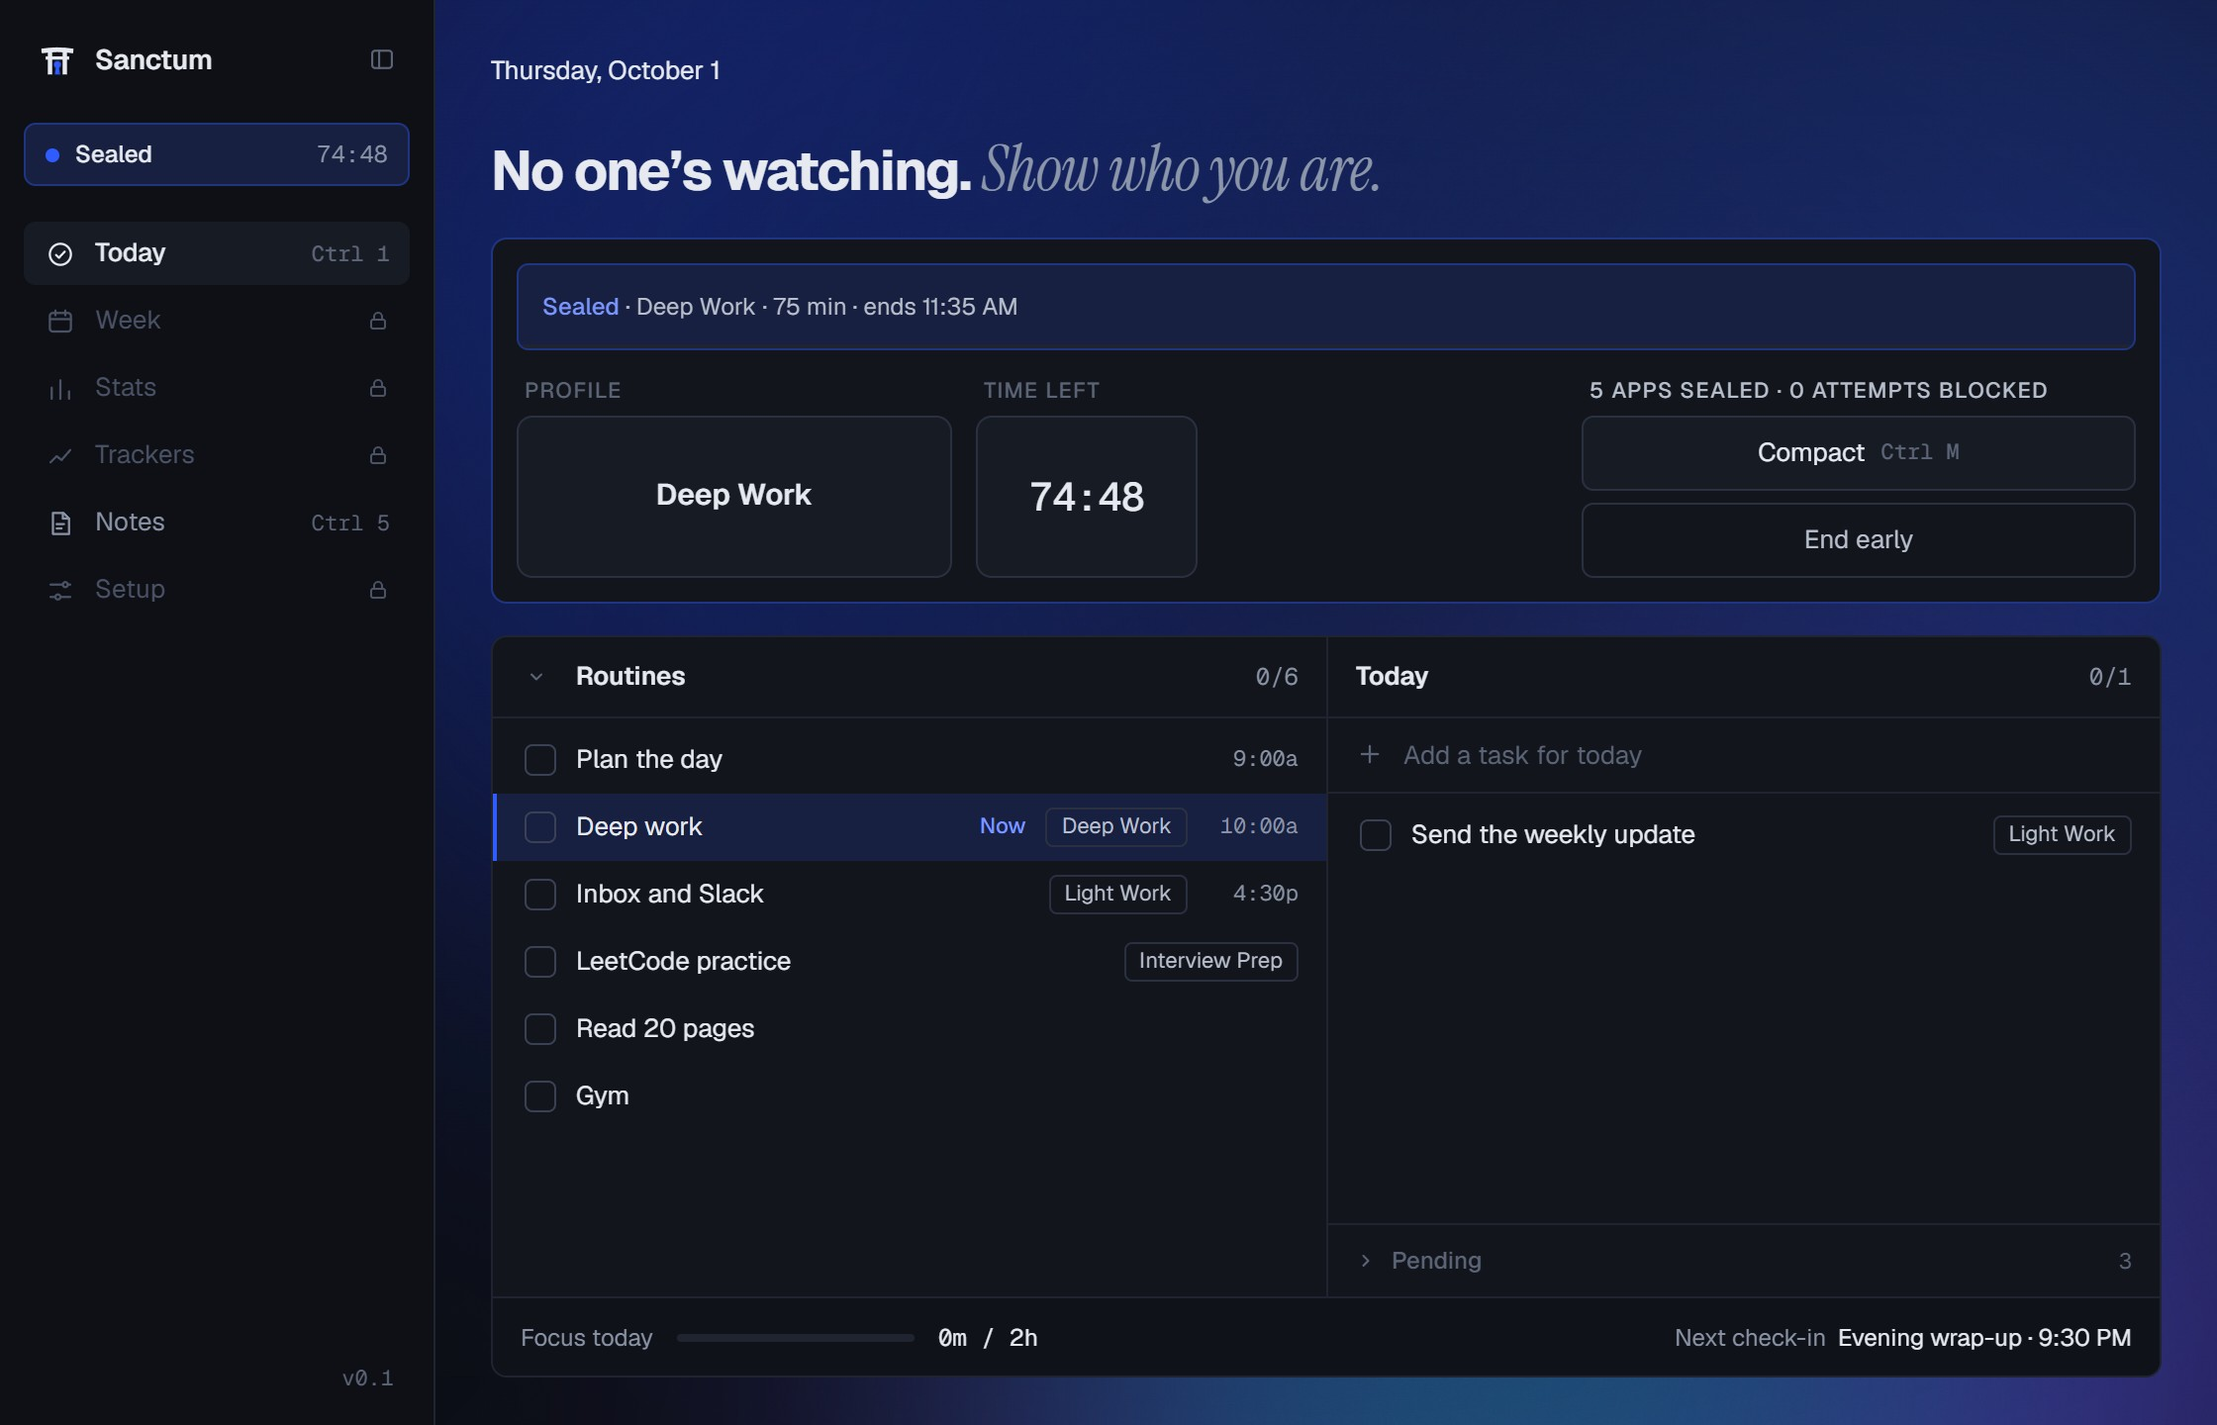
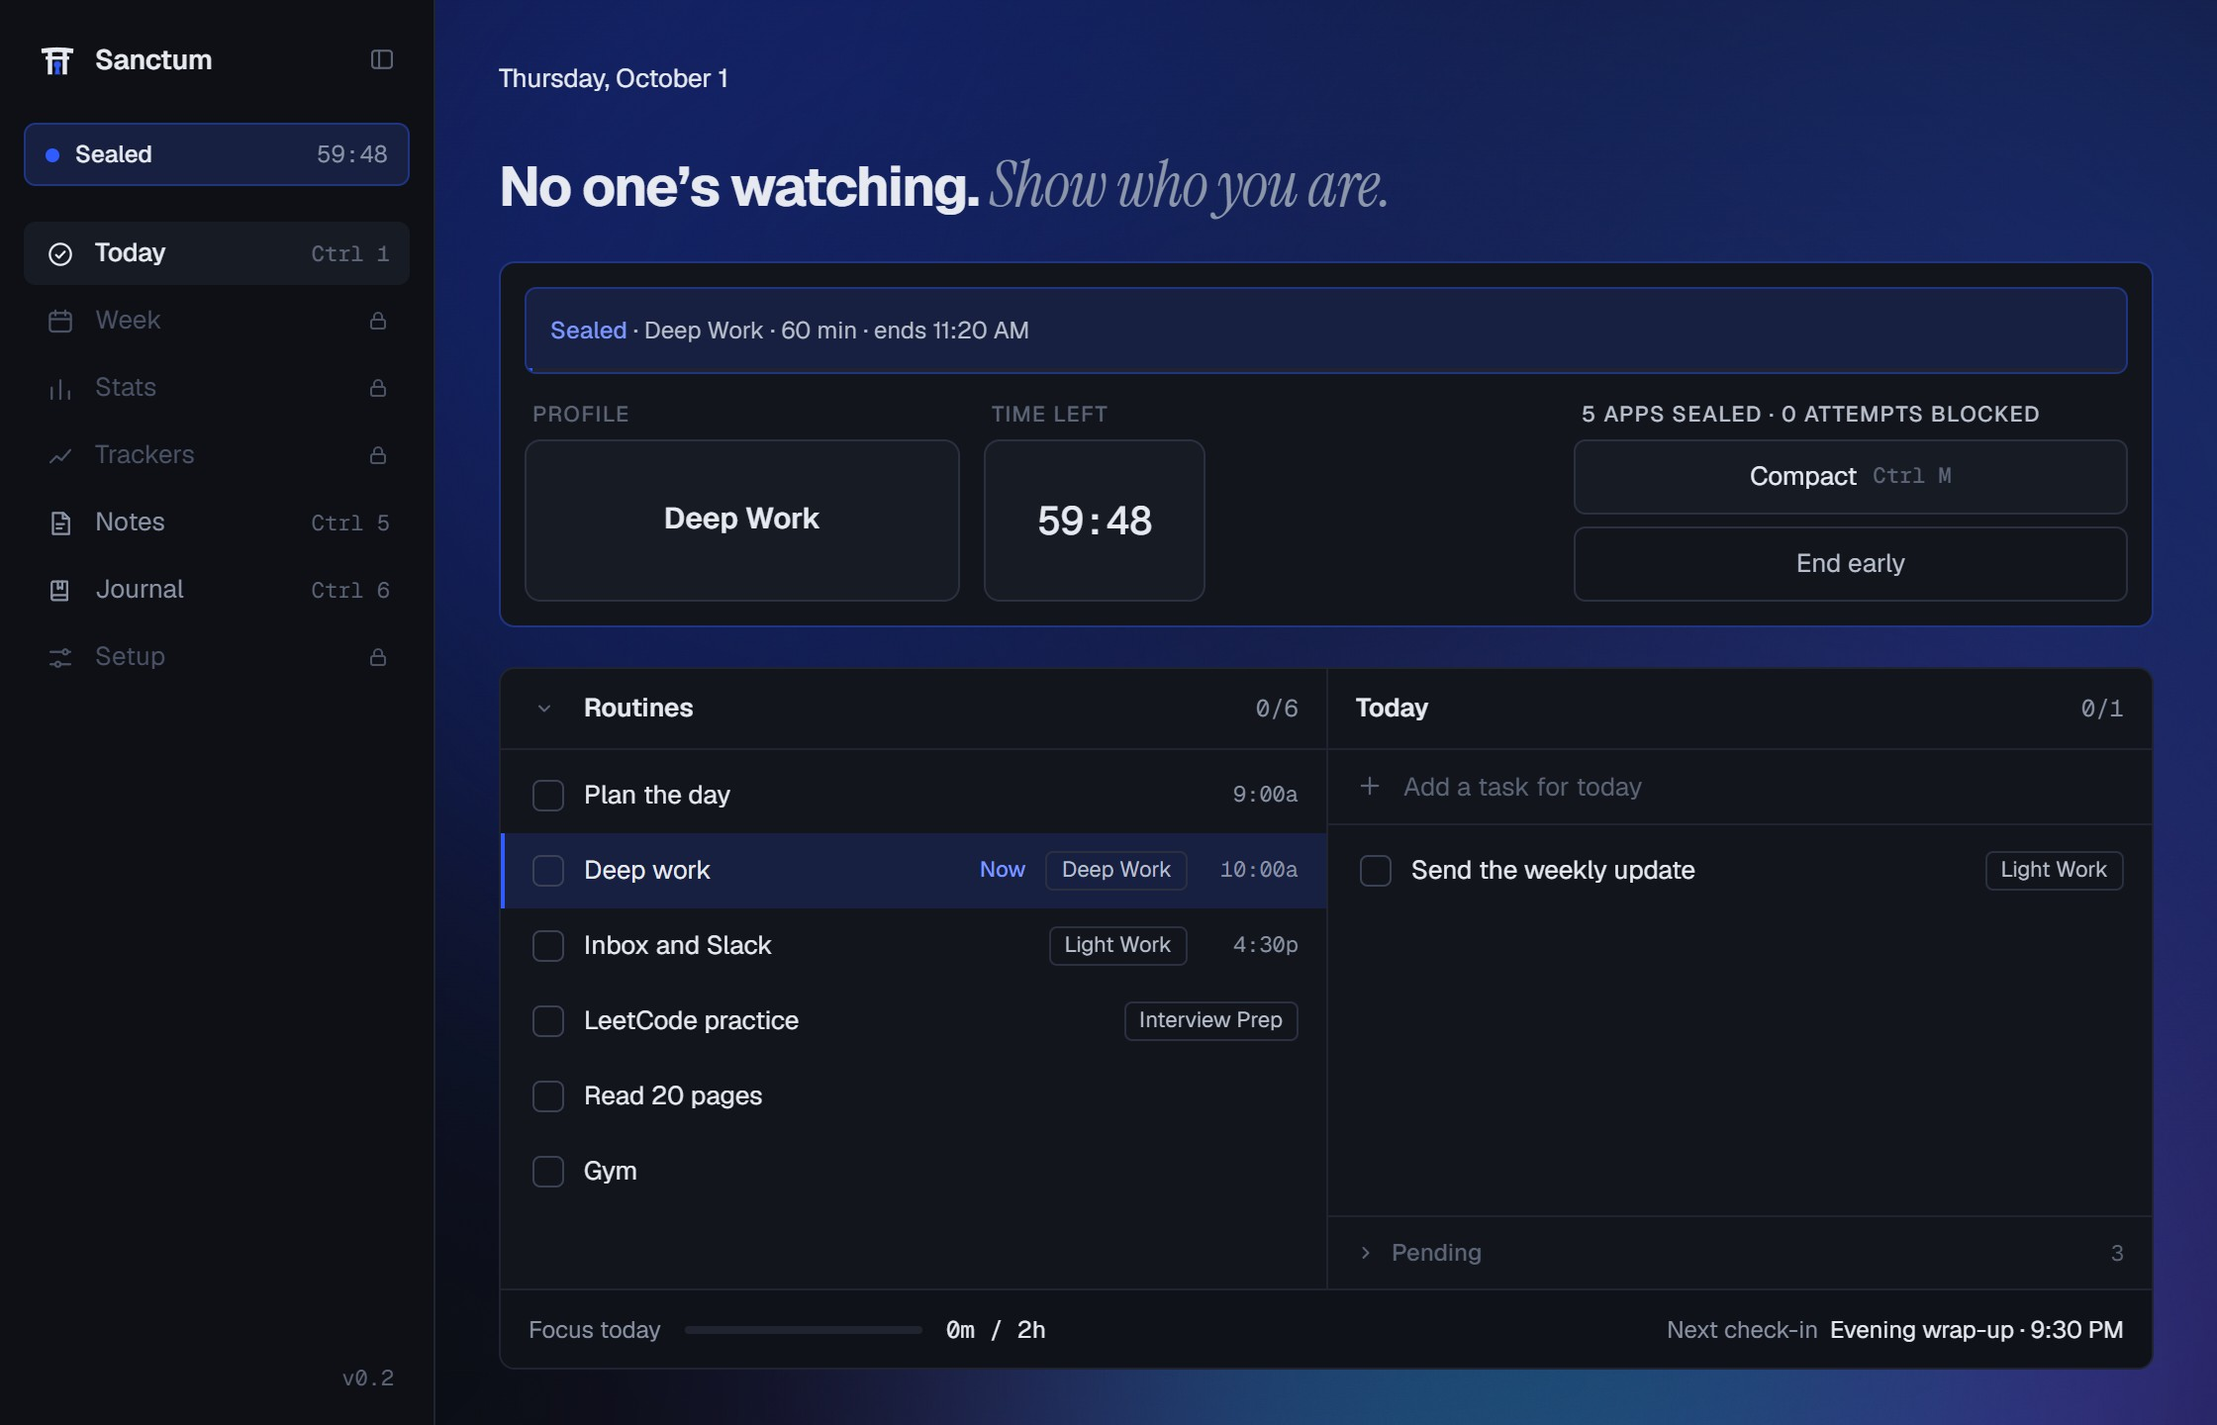
v0.2.0: version, CHANGELOG highlights, README and docs facts, fresh screenshots, share window fixed
- Version 0.2.0 in package.json, package-lock.json, tauri.conf.json, Cargo.toml, Cargo.lock.
- CHANGELOG: v0.2.0 dated with highlights; the v0.1.4 items fold in; v0.1.3 marked released.
- README and docs: leaving early and the emergency unlock per SPEC; a Protection restart
  doesn't break a seal, more than a minute gone does; notes, sharing, journal.
- Screenshots regenerated, plus a journal shot (README, home page).
- Supabase (applied): note_shares created_at is the insert time and the window can't move.

diff --git a/partner/src/site/Home.tsx b/partner/src/site/Home.tsx
@@ -9,6 +9,7 @@ import extension from "../../../docs/screenshots/extension-blocked.png";
 import approve from "../../../docs/screenshots/partner-approve.png";
 import week from "../../../docs/screenshots/week.png";
 import notes from "../../../docs/screenshots/notes.png";
+import journal from "../../../docs/screenshots/journal.png";
 import stats from "../../../docs/screenshots/stats.png";
 import trackers from "../../../docs/screenshots/trackers.png";
 
@@ -191,7 +192,12 @@ export function Home() {
         kicker="Notes and journal"
         lead="Write it down."
         payoff="Keep it yours."
-        media={<Shot src={notes} alt="Notes: a note with headings, lists, and checkboxes" />}
+        media={
+          <div className="stack-shots">
+            <Shot src={notes} alt="Notes: a block note with bullets and a checklist" />
+            <Shot src={journal} alt="Journal: today's page under the evening prompts" className="offset" />
+          </div>
+        }
       >
         <p>Notes with headings, checklists, tables, images, and links to your tasks. A journal with a page a day, the day's focus at the top, optional prompts, and a lock.</p>
         <p className="muted">Share a note as a live, read-only link that's end-to-end encrypted and expires when you choose.</p>

diff --git a/README.md b/README.md
@@ -26,7 +26,7 @@ A focus app for Windows that actually holds. Pick what you're working on, enter 
 Most blockers are easy to talk your way out of. Sanctum is built around three ideas:
 
 - **A seal that holds.** Flagged apps close the moment they open, sites and keyword tabs are blocked in every browser, and the seal survives restarts. If Sanctum is killed mid-session, a Windows service brings it back.
-- **Someone else holds the key.** Leaving early means a written reason, a wait, retyping a paragraph, and then a cooldown, or your accountability partner approving it from their phone with a PIN only they know.
+- **Someone else holds the key.** Leaving early means a written reason, a wait, and retyping a paragraph, and with a partner, their approval from their phone with a PIN only they know.
 - **Your day in one place.** Today's tasks, routines, and Google Calendar sit next to the focus button, so the next block starts the right profile with one keystroke.
 
 It's free, open source, and local first: your activity, history, trackers, and notes never leave your PC.
@@ -79,13 +79,15 @@ Streaks, focus against your daily goal, what tempted you most, and how your time
 
 <img src="docs/screenshots/stats.png" alt="Stats: streaks, daily focus against the goal, what tempted you, and where time went" />
 
-### Track anything, and keep notes
+### Track anything, keep notes, and journal
 
-Custom trackers (numbers, yes/no, 1 to 10, or text) with charts and scheduled check-ins, plus plain notes with lists and checkboxes for everything that isn't a task.
+Custom trackers (numbers, yes/no, 1 to 10, or text) with charts and scheduled check-ins. Notes are block documents: type `/` for headings, checklists, tables, callouts, toggles, and images, and `@` to link a task or a day. Share one as a live, end-to-end encrypted, read-only link that expires when you choose. The journal gives each day a page, with optional prompts and a lock (Windows Hello or a PIN).
 
 | Trackers | Notes |
 |---|---|
-| <img src="docs/screenshots/trackers.png" alt="Trackers: weight, sleep, and mood charts" /> | <img src="docs/screenshots/notes.png" alt="Notes: a note with bullets and checkboxes" /> |
+| <img src="docs/screenshots/trackers.png" alt="Trackers: weight, sleep, and mood charts" /> | <img src="docs/screenshots/notes.png" alt="Notes: a block note with bullets and a checklist, and the toolbar" /> |
+
+<img src="docs/screenshots/journal.png" alt="Journal: the day's strip, its focus and mood card, and a page under the evening prompts" />
 
 ### An accountability partner, on their phone
 
@@ -116,7 +118,7 @@ One Distractions list for apps, sites, links, and keywords; **quiet hours** that
 - Windows Do Not Disturb while sealed; your setting comes back after.
 
 **Holding the seal**
-- Leaving early: a reason and a wait, retyping a paragraph, then a 30-minute cooldown, or your partner's approval. One emergency unlock a week.
+- Leaving early: a reason and a 5-minute wait, then retyping a paragraph, then (with a partner) their approval. One emergency unlock a day.
 - Protection (optional, one admin prompt): blocks flagged sites in the hosts file for every browser, reopens Sanctum within seconds if it's closed, and can close flagged apps run as administrator.
 - Tamper detection: changing the clock, stopping the guard, or turning off the extension mid-seal breaks the seal, and your partner hears about it.
 - Quiet hours: your Distractions list blocked on a schedule outside sessions, with a 15-minute pause that asks why.
@@ -129,7 +131,7 @@ One Distractions list for apps, sites, links, and keywords; **quiet hours** that
 
 **Review**
 - Stats: streaks, rest days, kept and broken days, what tempted you, and where the time went.
-- Trackers with charts and check-ins, and notes.
+- Trackers with charts and check-ins, block notes with encrypted sharing, and a journal.
 - Export everything as JSON or CSV, back up, and restore.
 
 ---
@@ -155,7 +157,7 @@ One Distractions list for apps, sites, links, and keywords; **quiet hours** that
 2. Sanctum isn't code-signed yet, so Windows SmartScreen may show "Windows protected your PC". Click **More info**, then **Run anyway**.
 3. First-run setup walks you through profiles and your Distractions list. Sanctum updates itself from Releases (Setup › General › About).
 
-Then, in the app:
+Then, in the app (the [docs](https://sanctum-partner.vercel.app/docs) walk through each step):
 
 - **Browser extension** (Setup › Browser). Open `chrome://extensions` (or `edge://extensions`, `brave://extensions`), turn on **Developer mode**, click **Load unpacked**, and pick the folder Setup shows. Then open **Details** and turn on **Allow in Incognito**.
 - **Protection** (Setup › Protection). Turn it on with one admin approval. It installs the Sanctum Guard service.
@@ -167,22 +169,22 @@ Then, in the app:
 |---|---|
 | Ctrl Enter | Enter focus |
 | Ctrl K | Search or command |
-| Ctrl 1 to 5 | Today, Week, Stats, Trackers, Notes |
+| Ctrl 1 to 6 | Today, Week, Stats, Trackers, Notes, Journal |
 | Ctrl , | Setup |
 | Ctrl M | Compact timer (while sealed) |
 | Ctrl B | Collapse the sidebar |
 
 ## Privacy
 
-Sanctum is local first. Sessions, activity (which app and window is in front), tasks, trackers, notes, and stats are stored in a database on your PC and never uploaded. Google Calendar data travels only between your PC and Google. The optional account stores just what the partner feature needs: your email, partner links, a hashed PIN, and unlock requests. Read the full [privacy policy](https://sanctum-partner.vercel.app/privacy) and [terms](https://sanctum-partner.vercel.app/terms).
+Sanctum is local first. Sessions, activity (which app and window is in front), tasks, trackers, notes, the journal, and stats are stored in a database on your PC and never uploaded. A note you choose to share is encrypted on your PC first, with a key only the link carries. Google Calendar data travels only between your PC and Google. The optional account stores just what the partner and sharing features need: your email, partner links, a hashed PIN, unlock requests, and the ciphertext of notes you share until their links end. Read the full [privacy policy](https://sanctum-partner.vercel.app/privacy) and [terms](https://sanctum-partner.vercel.app/terms).
 
 ## FAQ
 
 **Can't I just close it?**
-While you're sealed, closing the window sends Sanctum to the tray, and Quit is disabled. With Protection on, a Windows service reopens it within seconds if it's killed, and the restart is logged.
+While you're sealed, closing the window sends Sanctum to the tray, and Quit is disabled. With Protection on, a Windows service reopens it within seconds if it's killed, the seal carries on, and the restart is logged.
 
 **What if my PC restarts mid-session?**
-The seal resumes where it left off. Downtime longer than a minute counts against the session, so it can't finish as kept.
+The seal resumes where it left off, but being gone for more than a minute breaks it and is logged, so plan restarts between seals.
 
 **Does it work offline?**
 Yes. Everything but Calendar sync and the partner works without a connection.

diff --git a/CHANGELOG.md b/CHANGELOG.md
@@ -1,6 +1,20 @@
 # Changelog
 
-## v0.2 (in progress)
+## v0.2.0 (2026-10-29)
+
+**Highlights**
+
+- **Notes, rebuilt.** Type `/` for headings, checklists, tables, callouts, toggles, and images; `@` links a task, routine, or day.
+- **Share a note** as a live, read-only link, end-to-end encrypted, for an hour, a day, or a week.
+- **A journal**: a page a day with the day's focus at the top, optional prompts, a one-tap mood, and a lock (Windows Hello or a PIN).
+- **Counters**: routines with a daily goal ("Protein, 150 g"), logged from Home.
+- **Start with Windows**, the same switch as Windows' own.
+- **Leaving early, simpler:** solo, the seal ends after the paragraph; the emergency unlock is daily.
+- **Motion and room:** rows glide, numbers roll, and lists breathe.
+- **Sanctum's site:** a home page, docs, and this changelog.
+
+**Everything in detail**
+
 
 - **Notes are block documents** (TipTap/ProseMirror, fully offline). Type "/" for a menu of blocks (text, headings, bulleted and numbered lists, checklist, table, quote, callout, toggle, divider, code, and "Make it a task for today", which puts the line on Today and links it), "@" to link a task, routine, tracker, or day in Sanctum, and markdown shortcuts as you type ("- ", "1. ", "[] ", "## ", "> ", "---"). Checklists nest with Tab; tables resize and Tab between cells. Drag a block by the handle at its left, or move it with Alt+↑/↓. Older plain notes convert the first time they open (lists, checkboxes, headings kept). Notes keep a plain-text copy for search, previews, and exports. Migration 0021. A small toolbar sits above each note: text size for every note (A− / A+, 12 to 22 px, remembered), bold, italic, strikethrough, two heading sizes, lists, checklist, table, and callout. The note panel has wider margins so the drag handle (now bigger) never spills past its edge. **Images:** paste or drop an image file into a note, or use "/image" or the toolbar. PNG, JPEG, GIF, or WebP up to 10 MB, stored in Sanctum's database (so backups carry them; the same image is kept once), shown on a private scheme, and resizable by their corners. Images no note uses any more are cleared after a day. Migration 0022.
 
@@ -16,7 +30,7 @@
 - **Journal setup lives on the page.** The first visit shows the setup steps in the Journal itself, not in a dialog over a placeholder that said the same thing; finishing opens today's page directly (the extra "Ready" step is gone). Journal settings still opens the steps in a dialog later.
 - **Pre-release pass (security, bugs).** Deleting a shared note takes its link down first; before, the encrypted copy stayed online until it expired. Quitting from the tray, the close button, or the tray panel saves what's still waiting (typing in a note or the journal, deletes in their 5 s undo window) before Sanctum exits; before, those were lost. The journal saves the last words typed before it relocks, or when you move to another day. A Windows Hello prompt no longer opens a PIN-locked journal, and wrong PINs pause longer each round (30 s, doubling, up to an hour). Note images are served with `nosniff`, and the shared-note page fetches images only from Sanctum's own bucket.
 
-## v0.1.4 (in progress)
+### Also in v0.2.0 (planned as v0.1.4)
 
 - **Start with Windows:** a switch in Setup › General that is the same switch as Windows' Settings › Apps › Startup (either one shows the other). Fix: the startup entry was written only on the very first run, so an update or reinstall could drop it for good and Sanctum quietly stopped starting with Windows; it's now rewritten on every launch with the current install's path, never touching your on/off choice.
 - **A seal broken by downtime is logged as tamper:** more than a minute gone mid-seal breaks it, as before, but now it's recorded as tamper, `shutdown` when the PC rebooted (Windows' uptime tells) or `killed` when Sanctum was closed or crashed, and the partner is told and the window says why on the next start. Migration 0020.
@@ -26,7 +40,9 @@
 - **Extension:** a seal can't get stuck after a restart (the blocking rules and the extension's copy of the seal now survive a browser restart together, and stale rules clear themselves). Extension 0.2.1.
 - **Extension, Sanctum closed with the browser open:** the bridge's "offline" message counted as hearing from Sanctum, so a seal outlived a closed (or crashed) Sanctum forever. It now lifts at its planned end, like any seal Sanctum can't vouch for. Idle time that extends a seal now reaches the extension too, so that end is the real one. Extension 0.2.2.
 
-## v0.1.3 (in progress)
+## v0.1.3 (2026-10-01)
+
+Released with the v0.1.2 fix below in one installer (its About says 0.1.2).
 
 - **Undo deletes:** deleting an item or routine hides it at once and shows "Deleted “Pay rent”." with **Undo** for 5 seconds; the real delete (and its Google Calendar event) waits until then. A reload in the meantime doesn't bring it back.
 - **No day yet in the item editor:** a checkbox beside Date parks the item on this week or next (Pending); unchecking gives a pending item its day.

diff --git a/docs/guide/faq.md b/docs/guide/faq.md
@@ -2,7 +2,7 @@
 
 ## Can't I just close it?
 
-While you're sealed, closing the window sends Sanctum to the tray, and Quit is off. With Protection on, a killed Sanctum is back within seconds, and the seal is logged as tampered.
+While you're sealed, closing the window sends Sanctum to the tray, and Quit is off. With Protection on, a killed Sanctum is back within seconds and the seal carries on; the restart is logged. Gone for more than a minute, and the seal breaks.
 
 ## What if my PC restarts mid-session?
 

diff --git a/docs/guide/leaving-early.md b/docs/guide/leaving-early.md
@@ -18,4 +18,4 @@ One a day, back at midnight. It skips the steps and ends the seal now. It doesn'
 
 ## What counts as broken
 
-Closing Sanctum, killing it, changing the clock, or turning off the guard or the extension mid-seal breaks it. Your streak resets, and your partner hears about it.
+Sanctum being gone for more than a minute (closed, killed, or the PC off), changing the clock, or turning off the guard or the extension mid-seal breaks it. Your streak resets, and your partner hears about it.
